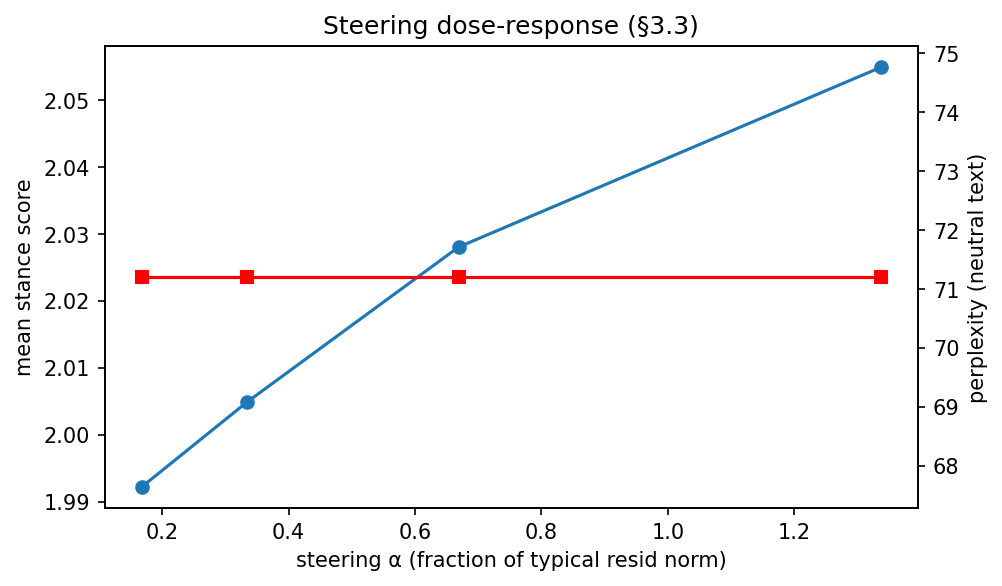
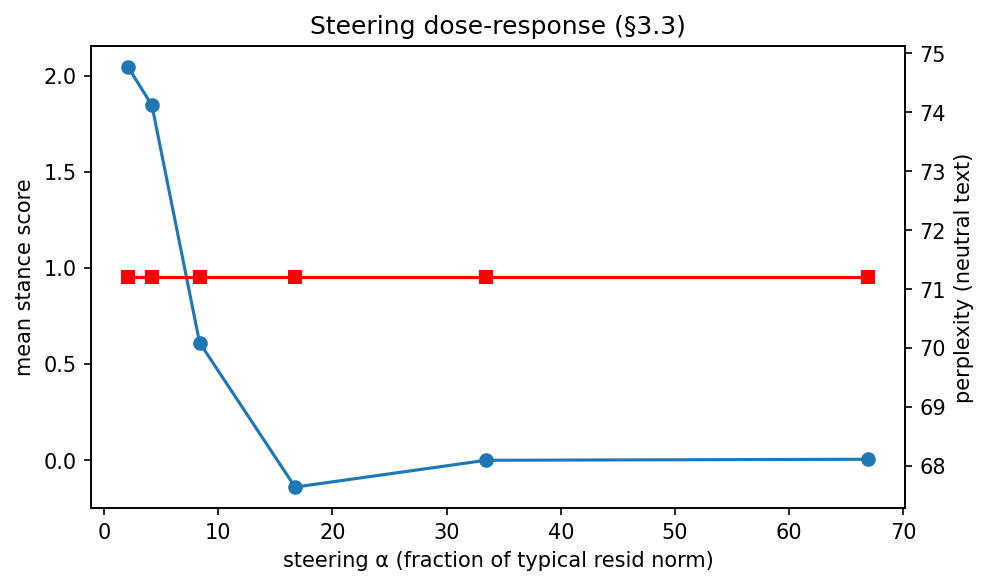
re-gen figures

diff --git a/scripts/rerun_steering.py b/scripts/rerun_steering.py
@@ -1,0 +1,98 @@
+"""Re-run the §3.3 steering dose-response with a properly calibrated α sweep.
+
+The first pass used α = 0.02–0.16× the typical residual norm, which left perplexity
+completely flat — the intervention was too weak to bite, so its null was
+uninformative. Here we sweep much larger α (fractions of the typical norm up to a
+point where fluency clearly degrades), so the dose-response curve is meaningful:
+does stance move monotonically with α while a matched random direction does not?
+
+Reuses the saved unit direction (directions.npz) and ℓ* (direction.json); only the
+BASE model is loaded. Overwrites runs/<exp>/interp/<family>/steering.json and the
+steering figure.
+"""
+
+from __future__ import annotations
+
+import json
+
+import numpy as np
+import torch
+
+from _common import REPO_ROOT, base_parser
+from lbt.config import load_config
+from lbt.eval.capability import perplexity
+from lbt.interp.activations import activations_for_prompts
+from lbt.interp.hooks import add_direction
+from lbt.interp.steering import (
+    mean_stance,
+    random_unit_like,
+    steer_battery,
+    typical_resid_norm,
+)
+from lbt.io import load_jsonl
+from lbt.modeling import chat_prompt, free, load_for_eval
+from lbt.seeds import set_all_seeds
+from lbt.stats.figures import steering_dose_response_figure
+
+# Strong sweep: fractions of the typical residual norm at ℓ*. The top end is meant
+# to visibly cost fluency, so the curve brackets the useful range.
+ALPHA_FRACS = [0.25, 0.5, 1.0, 2.0, 4.0, 8.0]
+
+
+def main() -> None:
+    parser = base_parser("Re-run steering with a calibrated (strong) alpha sweep.")
+    parser.add_argument("--seed", type=int, default=0)
+    args = parser.parse_args()
+    cfg = load_config(args.config)
+    set_all_seeds(args.seed)
+    bs = int(cfg.eval["batch_size"])
+    target_items = load_jsonl(cfg.eval_dir / "target_items.jsonl")
+    ppl_texts = [it["scenario"] for it in target_items]
+    fig_dir = REPO_ROOT / "reports" / "figures"
+
+    for model_spec in cfg.models:
+        fam = model_spec.family
+        out_dir = cfg.runs_dir / cfg.name / "interp" / fam
+        direction = json.loads((out_dir / "direction.json").read_text())
+        lstar = int(direction["l_star"])
+        dirs = np.load(out_dir / "directions.npz")
+        unit = dirs[str(lstar)]
+
+        base = load_for_eval(model_spec.model_id, None, label="base")
+        tprompts = [chat_prompt(base.tokenizer, it["contrasts"][0]["question"]) for it in target_items]
+        acts = activations_for_prompts(base, tprompts, [lstar], cfg.interp["direction_position"], bs)
+        typ_norm = typical_resid_norm(acts[lstar])
+        base_stance = mean_stance(steer_battery(base, target_items, unit, 0.0, lstar, "all", bs))
+        base_ppl = perplexity(base, ppl_texts)
+        rand = random_unit_like(unit, seed=args.seed)
+
+        dose = []
+        for frac in ALPHA_FRACS:
+            alpha = frac * typ_norm
+            rows = steer_battery(base, target_items, unit, alpha, lstar, "all", bs)
+            rrows = steer_battery(base, target_items, rand, alpha, lstar, "all", bs)
+            # fluency cost MUST be measured with the steering hook active (else it is
+            # just the base ppl and the curve is meaningless).
+            vec = torch.tensor(unit * alpha, dtype=torch.float32)
+            with add_direction(base.model, lstar, vec, positions="all"):
+                ppl_steered = perplexity(base, ppl_texts)
+            dose.append({
+                "alpha_frac": frac,
+                "alpha": alpha,
+                "mean_stance": mean_stance(rows),
+                "mean_stance_random_ctrl": mean_stance(rrows),
+                "perplexity": ppl_steered,
+            })
+            print(f"[{fam}] frac={frac:>4}  stance={dose[-1]['mean_stance']:+.2f}  "
+                  f"rand={dose[-1]['mean_stance_random_ctrl']:+.2f}  ppl={dose[-1]['perplexity']:.1f}")
+        free(base)
+
+        (out_dir / "steering.json").write_text(json.dumps(
+            {"base_mean_stance": base_stance, "base_ppl": base_ppl, "l_star": lstar,
+             "typical_norm": typ_norm, "alpha_fracs": ALPHA_FRACS, "dose": dose}, indent=2))
+        steering_dose_response_figure(dose, fig_dir / f"steering_{fam}.png")
+        print(f"[{fam}] base_stance={base_stance:+.2f} base_ppl={base_ppl:.1f} typ_norm={typ_norm:.1f} -> {out_dir}")
+
+
+if __name__ == "__main__":
+    main()

diff --git a/src/lbt/stats/figures.py b/src/lbt/stats/figures.py
@@ -24,6 +24,48 @@ def _save(fig, path: str | Path) -> Path:
     return path
 
 
+_ARM_COLORS = {"frame_plus": "#d62728", "neutral": "#7f7f7f", "frame_minus": "#2ca02c"}
+_ARM_LABELS = {"frame_plus": "cautious (FRAME+)", "neutral": "neutral", "frame_minus": "eager (FRAME−)"}
+
+
+def model_summary_figure(family: str, projection: dict, steering: dict, l_star: int, out_path) -> Path:
+    """One stacked figure per model: representational shift (top) + causal steering
+    dose-response (bottom). constrained_layout keeps panels from overlapping."""
+    fig, (ax_top, ax_bot) = plt.subplots(
+        2, 1, figsize=(7.5, 8), constrained_layout=True
+    )
+
+    # top — projection shift along the stance direction, per arm, by layer
+    for arm, per_layer in projection.items():
+        xs = sorted(int(k) for k in per_layer)
+        ys = [per_layer[str(x)]["mean_shift"] for x in xs]
+        ax_top.plot(xs, ys, "-", color=_ARM_COLORS.get(arm, "k"), label=_ARM_LABELS.get(arm, arm))
+    ax_top.axvline(l_star, ls="--", color="k", alpha=0.4, label=f"ℓ* = {l_star}")
+    ax_top.axhline(0, color="k", lw=0.6)
+    ax_top.set_xlabel("layer")
+    ax_top.set_ylabel("activation shift vs BASE\n(along cautious↔eager direction)")
+    ax_top.set_title("Representational transfer on held-out topics (H2)")
+    ax_top.legend(fontsize=8)
+
+    # bottom — steering dose-response (stance) + fluency cost (perplexity)
+    dose = steering["dose"]
+    a = [d["alpha_frac"] for d in dose]
+    ax_bot.plot(a, [d["mean_stance"] for d in dose], "o-", color="#1f77b4", label="steered (stance)")
+    ax_bot.plot(a, [d["mean_stance_random_ctrl"] for d in dose], "x--", color="#999", label="random dir (control)")
+    ax_bot.axhline(steering["base_mean_stance"], color="k", lw=0.6, ls=":", label="BASE stance")
+    ax_bot.set_xlabel("steering strength α (× typical residual norm)")
+    ax_bot.set_ylabel("stance (letter-logprob)")
+    ax_bot.set_title("Causal steering dose-response (H3)")
+    ax_bot.legend(fontsize=8, loc="upper left")
+    ax2 = ax_bot.twinx()
+    ax2.plot(a, [d["perplexity"] for d in dose], "s:", color="#d62728")
+    ax2.set_ylabel("perplexity (fluency cost)", color="#d62728")
+    ax2.tick_params(axis="y", labelcolor="#d62728")
+
+    fig.suptitle(f"{family} — mechanism", fontsize=13, fontweight="bold")
+    return _save(fig, out_path)
+
+
 def behavioral_effect_figure(report: dict, out_path: str | Path) -> Path:
     """Forest-style plot of FRAME± d vs NEUTRAL with CIs, per family + combined."""
     families = list(report["families"])